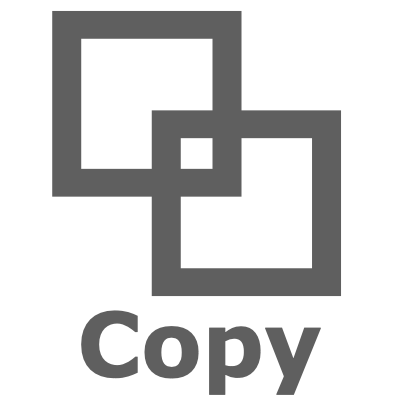
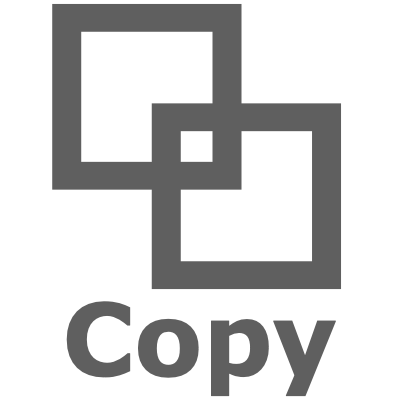
Copy button resizing (2)

diff --git a/src/config.js b/src/config.js
@@ -6,7 +6,7 @@ const nBoardRows = [5, 6]
 const nBoardCols = [14, 12]
 
 // Number of pieces making up the puzzle.
-const nPieces  = 2
+const nPieces  = 10
 
 // Title div styling.
 const titleFontSizeEM = 2.8
@@ -39,5 +39,5 @@ const youtubeDivHeightPx = 37 * baseSizePx
 const resultDivWidthPx = 47 * baseSizePx
 const resultAppNameFontSizeEM = 2.1
 const resultFadeoutInterval = 1000
-const copyButtonSizePx = 9 * baseSizePx
+const copyButtonSizePx = 7 * baseSizePx
 const copiedDelay = 3000
